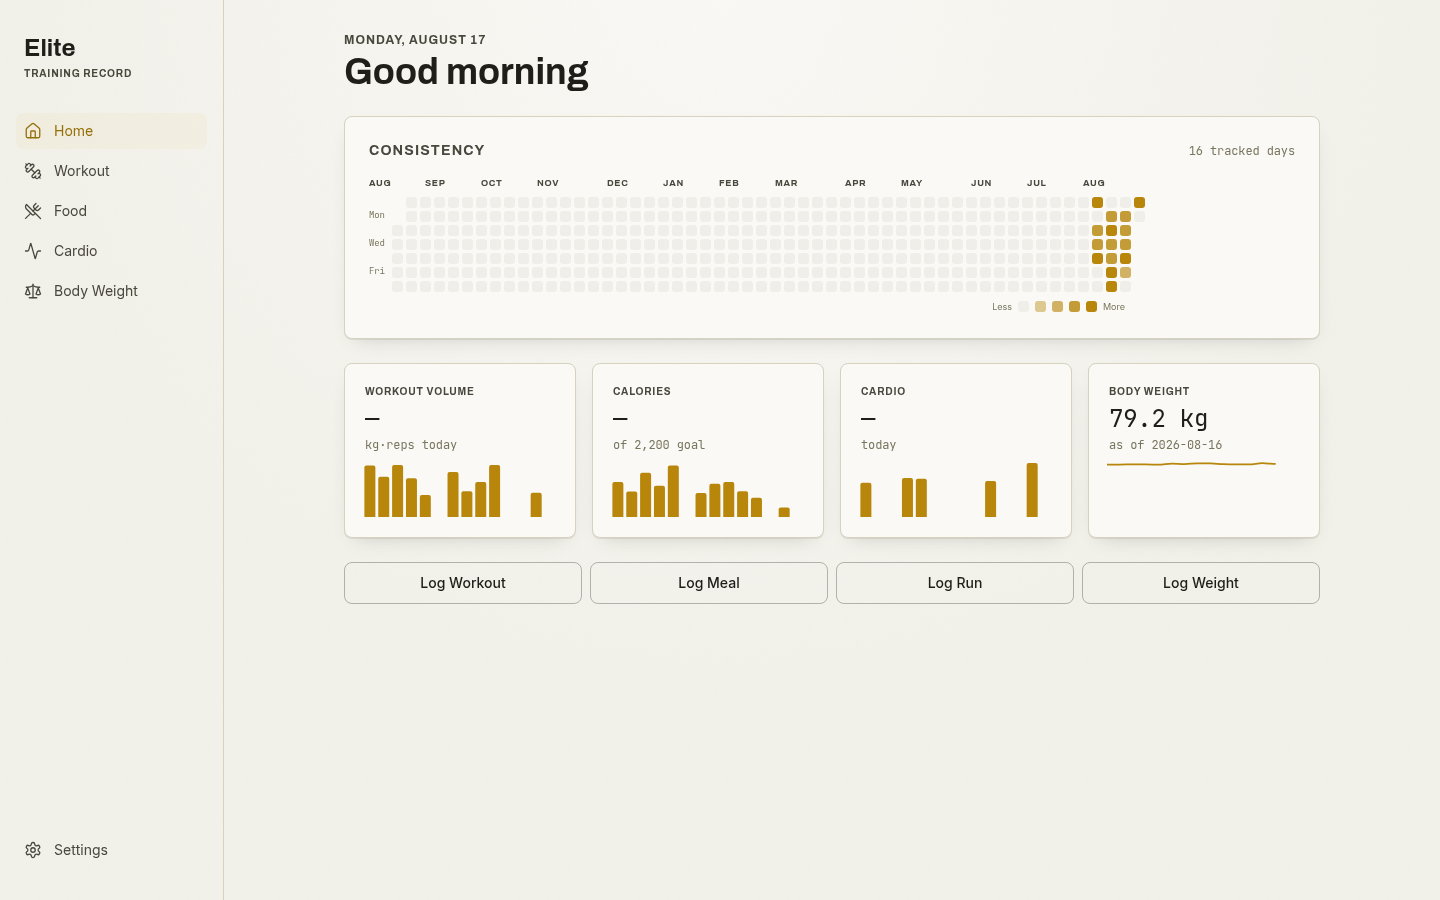
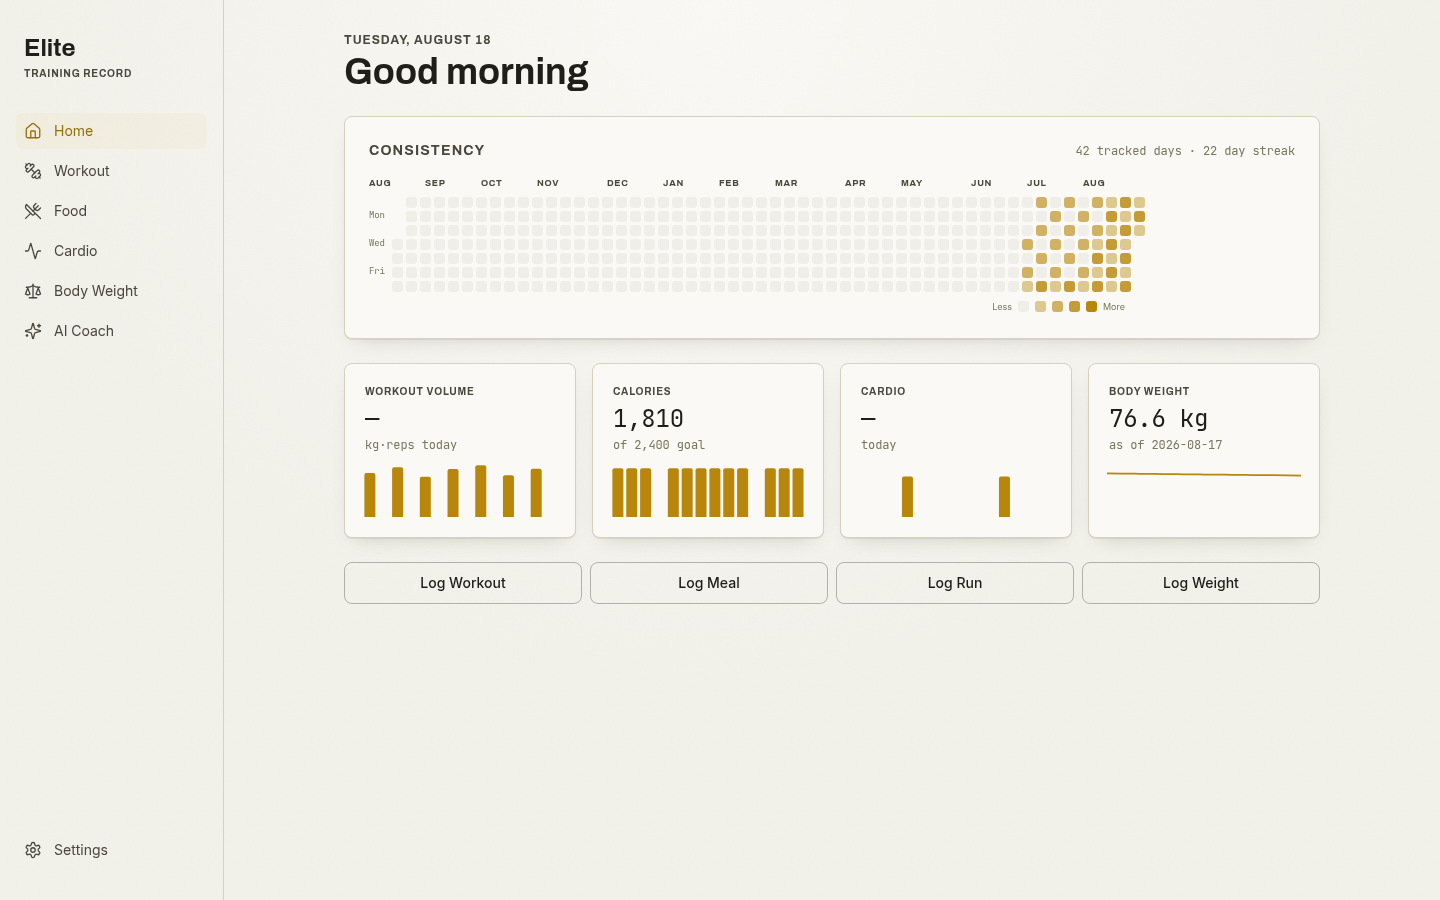
docs: richer README screenshots, document pie charts and provider choice

diff --git a/README.md b/README.md
@@ -11,7 +11,7 @@ A local-first PWA for tracking workouts, food, cardio, and body weight — built
 - **Cardio** — session log with presets that scale by a multiplier ("Evening Cycling" × 1.5)
 - **Body Weight** — daily log with trend chart and rolling average
 - **Home** — GitHub-style consistency heatmap + 14-day trend charts across all four
-- **AI Coach** — ask it about your training in plain language; it calls tools against your real logs (workouts, food, cardio, weight) rather than guessing. Backend-only — see below
+- **AI Coach** — ask it about your training in plain language ("why has my bench plateaued", "what's my tricep split") and it calls tools against your real logs rather than guessing, charting a trend, ranking, or breakdown on request. Backend-only — see below
 - **Dark mode** — light, dark, or system, set in Settings
 
 ![Home dashboard heatmap and trend cards](screenshots/home.png)
@@ -20,7 +20,7 @@ No account, no backend required — everything lives in IndexedDB on your device
 
 ## Stack
 
-React + Vite + TypeScript, Dexie (IndexedDB), Tailwind, Recharts, `vite-plugin-pwa`. Optional sync server: Express + SQLite (`better-sqlite3`). Optional AI Coach: Groq, tool-calling only (no RAG/vector store).
+React + Vite + TypeScript, Dexie (IndexedDB), Tailwind, Recharts, `vite-plugin-pwa`. Optional sync server: Express + SQLite (`better-sqlite3`). Optional AI Coach: any OpenAI-compatible provider (Groq, OpenCode, ...), tool-calling only (no RAG/vector store).
 
 ## Run it
 
@@ -47,10 +47,24 @@ Running the frontend and server separately instead (e.g. the app on Vercel, the 
 
 ### AI Coach
 
-Optional, and only shows up in the app once it's configured. It's entirely server-side — the frontend never talks to Groq directly, and there's no client-side key to steal. Get a free key at [console.groq.com/keys](https://console.groq.com/keys) and pass it as `GROQ_API_KEY`:
+Optional, and only shows up in the app once it's configured. It's entirely server-side — the frontend never talks to the model provider directly, and there's no client-side key to steal. Works against any OpenAI-compatible chat-completions API that supports tool calling; `COACH_PROVIDER` picks a known-good preset:
 
 ```bash
-docker run -d -p 8080:8080 -v elite-data:/data -e GROQ_API_KEY=gsk_... --name elite elite
+# Groq — free tier, https://console.groq.com/keys — capped around 8000
+# tokens/min, which a multi-tool question can hit; fine for occasional use.
+docker run -d -p 8080:8080 -v elite-data:/data \
+  -e COACH_PROVIDER=groq -e COACH_API_KEY=gsk_... --name elite elite
+
+# OpenCode Go — https://opencode.ai/docs/go — a $10/mo subscription with a
+# much larger quota (hours/week/month budgets, not a tight per-minute cap).
+docker run -d -p 8080:8080 -v elite-data:/data \
+  -e COACH_PROVIDER=opencode -e COACH_API_KEY=sk-... --name elite elite
 ```
 
-Unlike `SYNC_TOKEN`, this is read at container start — no rebuild needed to add, change, or remove it. The coach answers by calling tools against your synced data (recent workouts, exercise trends, PRs, muscle volume, food/macros, cardio, body weight) — it doesn't see anything that hasn't synced to the server yet.
+Point it at something else entirely with `COACH_BASE_URL`/`COACH_MODEL` instead of `COACH_PROVIDER` — see `server/.env.example`. Unlike `SYNC_TOKEN`, all of these are read at container start — no rebuild needed to add, change, or swap providers.
+
+![AI Coach answering a plateau question and charting a tricep-exercise split as a pie chart](screenshots/coach.png)
+
+The coach answers by calling tools against your synced data (recent workouts, exercise trends, PRs, muscle volume and its breakdown by exercise, food/macros, cardio, body weight, consistency) — it doesn't see anything that hasn't synced to the server yet — and can render a line chart, bar chart, pie chart, or table inline when a question calls for one, reading the numbers straight out of its own prior tool call rather than retyping them into the chart (so a chart can't silently show the wrong numbers the way an LLM re-transcribing figures into prose sometimes can).
+
+A single question can take 2-3 model round-trips (more if it also renders a chart), so which provider you pick matters more here than for typical chat use — a tight free-tier rate limit is the most likely source of an occasional "try again in a moment."
